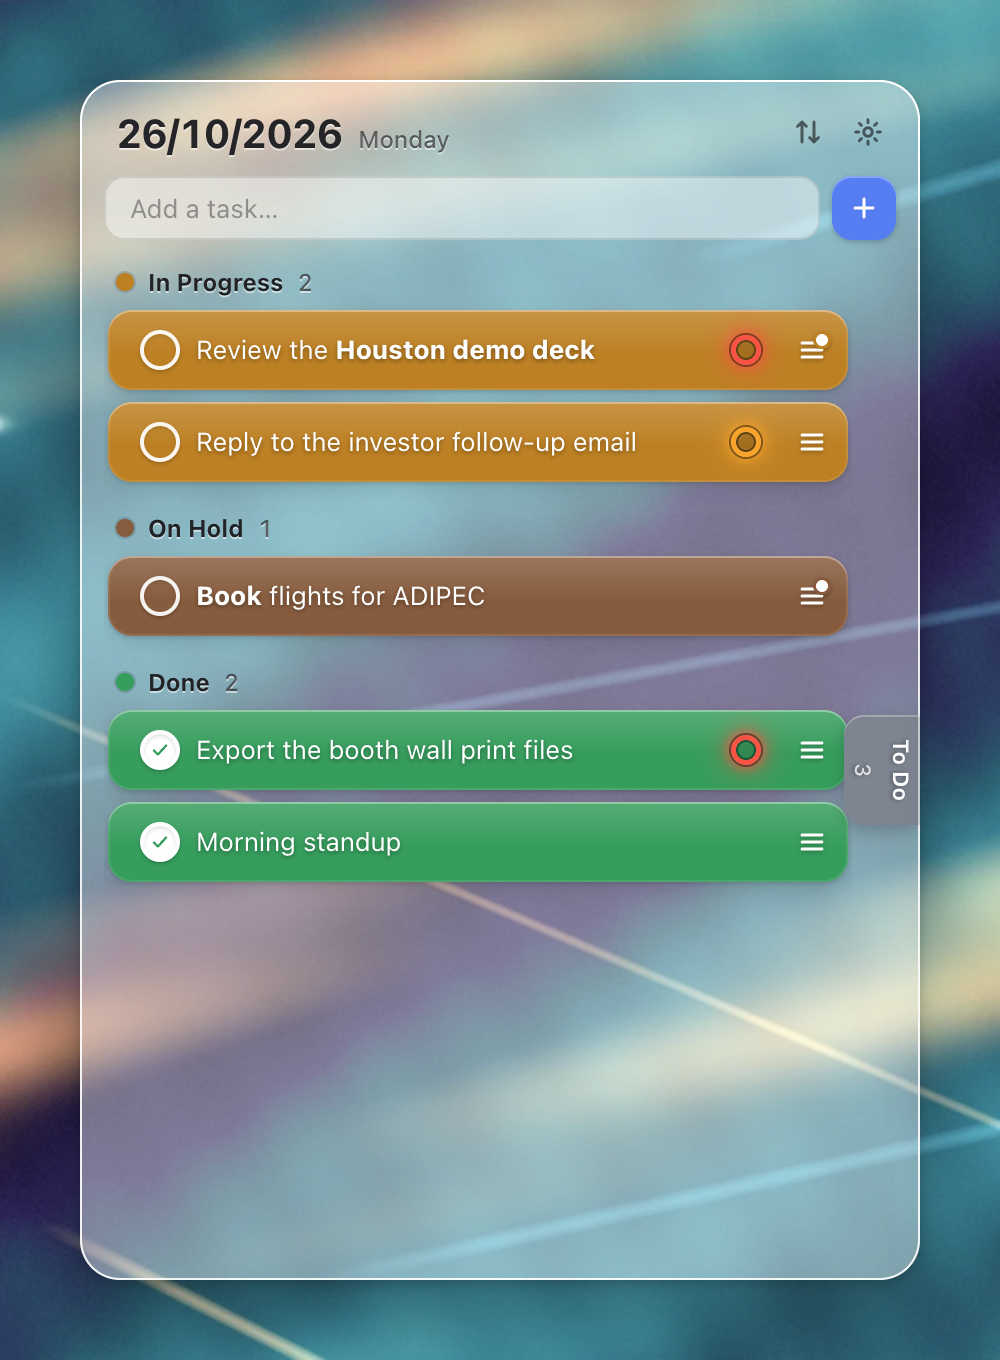
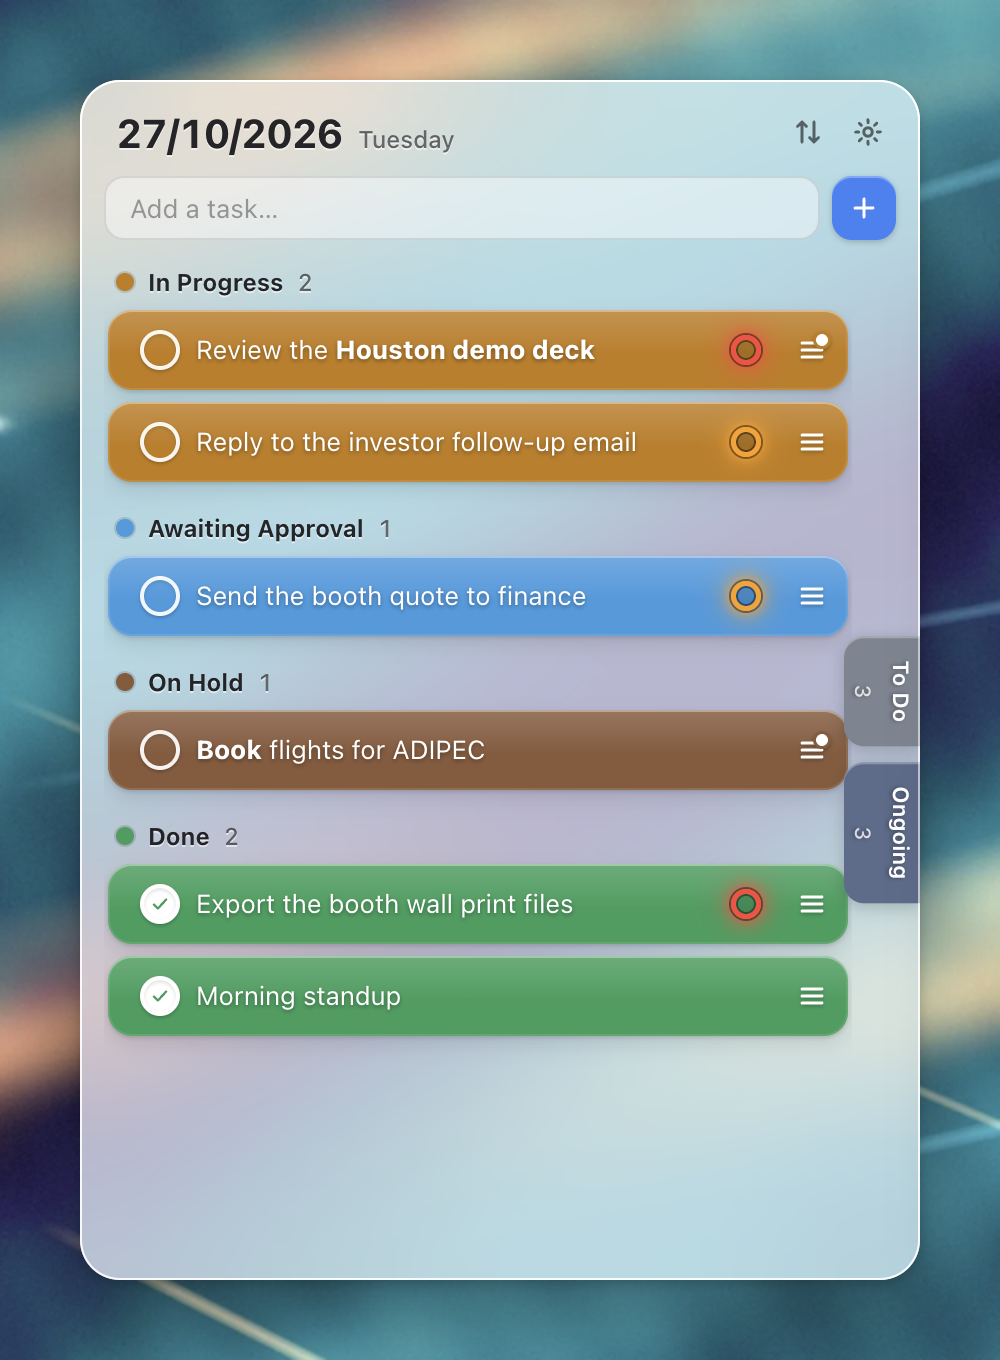
0.2.0: README, changelog and screenshots for Preferences, Ongoing and Awaiting Approval

diff --git a/README.md b/README.md
@@ -1,8 +1,9 @@
 # ClearDay
 
-A compact, Monday-style daily task board that floats on your Mac desktop in
-liquid glass. One window, one day: set what's in progress, what's on hold,
-what's done, and keep the to-do list beside it.
+A compact, Monday-style daily task board that floats on your Mac desktop.
+One window, one day: set what's in progress, what's waiting for approval,
+what's on hold and what's done, with the to-do list and your long-term
+projects beside it.
 
 ![ClearDay, dark](docs/expanded-dark.png)
 
@@ -10,37 +11,53 @@ what's done, and keep the to-do list beside it.
 |---|---|
 | ![ClearDay, light](docs/expanded-light.png) | ![ClearDay, compact](docs/compact-light.png) |
 
+| Ongoing projects | Preferences |
+|---|---|
+| ![The Ongoing tab](docs/ongoing-dark.png) | ![Preferences](docs/prefs-dark.png) |
+
 ## Features
 
-- **Liquid glass.** The window refracts and frosts the desktop behind it,
-  using the same shader as
-  [Claude Usage Limits Bar](https://github.com/NoamElyasim/Claude-usage-limits-bar).
-  It has Light, Dark and Follow System themes. Until Screen Recording is
-  allowed, it uses the system blur instead.
+- **Translucent window.** The desktop shows through a blurred background. You
+  set how see-through it is, separately for Light and Dark. It has Light,
+  Dark and Follow System themes.
 - **Statuses fill the row.** Click the round button on a row and pick To Do,
-  In Progress, On Hold or Done. The whole row takes that colour.
+  In Progress, Awaiting Approval, On Hold or Done. The whole row takes that
+  colour.
 - **To Do in its own panel.** The board lists In Progress first, then
-  On Hold, then Done. A row moves to its new section, animated, when its
-  status changes.
+  Awaiting Approval, then On Hold, then Done. A row moves to its new section,
+  animated, when its status changes.
+- **Ongoing projects.** Long-term work lives in an Ongoing tab beside To Do.
+  - Its tasks keep their own statuses but stay off today's board.
+  - Move a task between Today and Ongoing from the status picker, or by
+    dragging it.
+  - New tasks go to whichever tab is open.
 - **Priority rings.** Mark a task High (red) or Medium (orange) and a
   glowing ring appears on its right.
 - **Partial bold.** Select a word and press ⌘B or the B button. With nothing
   selected, B bolds the whole row.
-- **Notes.** The ≡ button opens a notes panel attached under the task. It
-  saves as you type and resizes from its bottom edge. Only its X closes it,
-  so it never closes by accident.
+- **Notes.** The ≡ button opens a notes panel attached under the task, and
+  the same button closes it.
+  - It saves as you type and resizes from its bottom edge.
+  - Right-click in a note for spelling suggestions, Look Up, speech, and
+    writing direction: left to right or right to left, kept per note.
 - **Responsive layout.**
   - A wide window shows the board and the To Do panel side by side.
   - A narrow window shows one column, with To Do in a drawer on the right
     edge and the row tools behind "…".
+  - In the narrow layout, To Do and Ongoing each get a tab on the right edge.
 - **Sorting.** Default (by status), By priority, By creation time, or Manual.
   Default and Manual let you drag rows to reorder them, and drag rows between
   To Do and the board.
 - **Undo.** A deleted task can be restored from the toast or with ⌘Z.
 - **Your day carries over.** At midnight only the date changes. Nothing is
   cleared or archived.
-- **Launches at login** (you can turn this off). It can show in the Dock or
-  in the menu bar only, and can stay always on top.
+- **Preferences** (the gear, or ⌘,):
+  - Appearance: theme, background opacity for Light and Dark, blur, text size
+    and the weekday.
+  - Behavior: always on top, Dock or menu bar only, launch at login, sort and
+    spell checking.
+  - Data: show the data folder, export your tasks, reset the window position.
+  - A list of keyboard shortcuts.
 
 ### Keyboard
 
@@ -52,7 +69,8 @@ what's done, and keep the to-do list beside it.
 | ⌘B | Bold the selection, or the whole row |
 | ⌘⌫ | Delete the selected task |
 | ⌘Z | Undo the last delete |
-| Esc | Cancel an edit, close a picker or the drawer |
+| ⌘, | Preferences |
+| Esc | Cancel an edit, or close a picker, the drawer or Preferences |
 
 ## Install
 
@@ -64,14 +82,6 @@ cd clearday
 npm install
 npm run install:mac      # builds, signs locally, copies to /Applications, opens it
 ```
-
-The first launch asks for **Screen Recording**. The live glass needs it to see
-the desktop behind the window. Nothing is recorded or stored; frames go
-straight to the shader. If you skip the prompt, you can allow it later from
-the gear menu.
-
-The build needs the Xcode command line tools (`xcode-select --install`) for
-the small Swift capture helper.
 
 ## Develop
 
@@ -89,11 +99,10 @@ Running it that way leaves your real board untouched.
 ### Layout
 
 ```
-src/main/       main process: window, menus, tray, settings, task store, glass capture
+src/main/       main process: window, menus, tray, settings, task store, right-click menu
 src/preload.cjs the renderer's API (window.clearday)
 src/shared/     the task model: plain functions shared by both sides
 src/renderer/   the UI; theme.css holds every colour
-native/         the ScreenCaptureKit helper behind the glass
 ```
 
 ### Data

diff --git a/CHANGELOG.md b/CHANGELOG.md
@@ -1,5 +1,28 @@
 # Changelog
 
+## v0.2.0 — 2026-10-27
+
+- **Preferences**, from the gear or ⌘,:
+  - Appearance: theme, background opacity (separate for Light and Dark),
+    blur behind the window, text size, weekday.
+  - Behavior: always on top, Dock or menu bar only, launch at login, sort,
+    spell checking in notes.
+  - Data: show the data folder, export tasks, reset the window position.
+  - A list of keyboard shortcuts.
+- **Ongoing list** for long-term projects, in a tab beside To Do (and its own
+  edge tab in the narrow layout).
+  - Ongoing tasks keep their statuses and stay off today's board.
+  - Move tasks between Today and Ongoing from the status picker or by
+    dragging them.
+- **New status: Awaiting Approval** (light blue). It sits between In
+  Progress and On Hold.
+- **Notes:**
+  - The ≡ button now closes notes as well as opening them, so the X is gone.
+  - Right-clicking in a note offers spelling suggestions, Look Up, speech,
+    and writing direction (kept per note).
+- **The live glass is gone, and with it the Screen Recording prompt.** The
+  window now uses the system blur under a background you set yourself.
+
 ## v0.1.0 — 2026-10-26
 
 First release.
